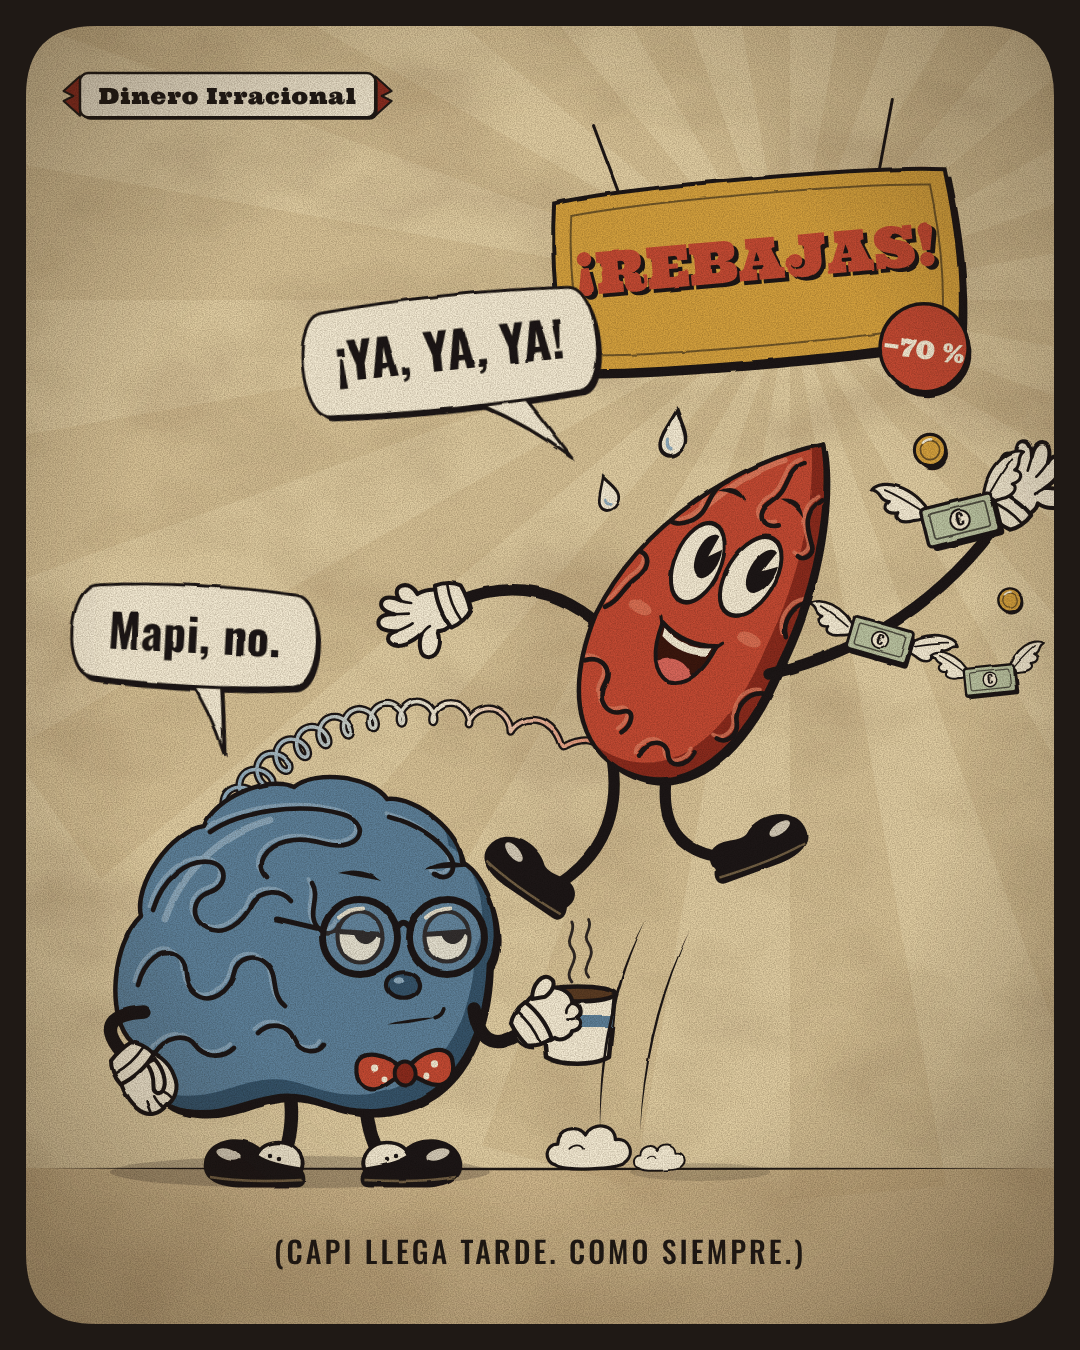
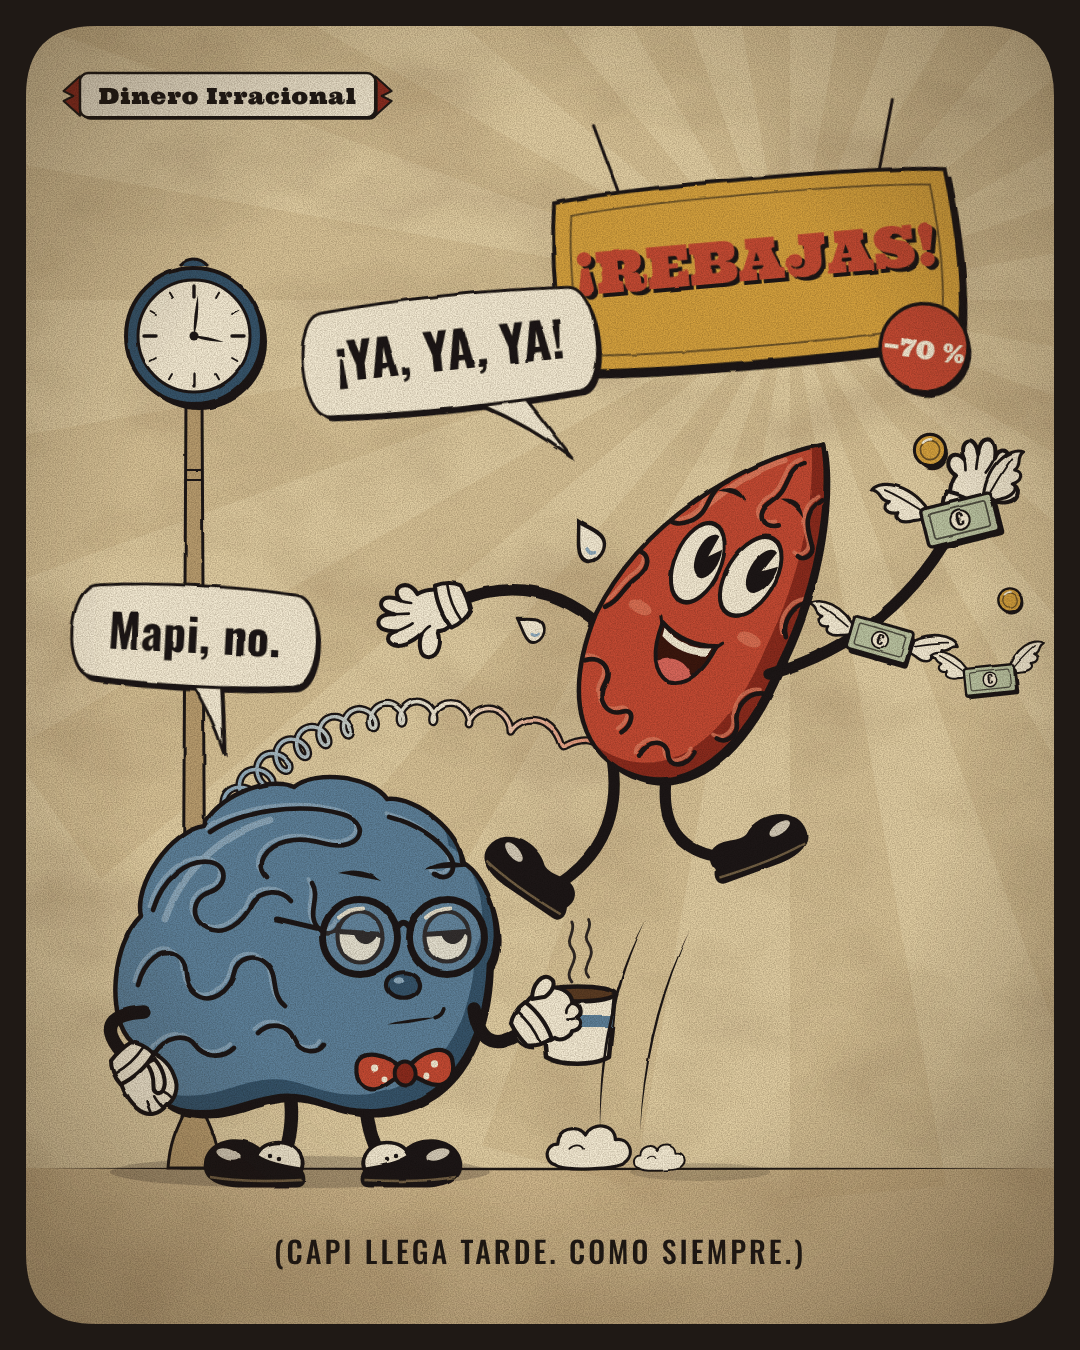
Add character proposal 3 (Manguera)
Claude-Session: https://claude.ai/code/session_01FVuLSk4nTW39aF9TMyduFm

diff --git a/instagram/characters/proposals/p3-manguera/render.js b/instagram/characters/proposals/p3-manguera/render.js
@@ -1,7 +1,7 @@
 // «Manguera» — scenes + render. Usage: node render.js [hero|expressions|cover|avatar|all]
 // Writes <name>.svg (self-contained, fonts via Google Fonts @import) and <name>.png next to this file.
 const path = require('path');
-const { C, mapi, capi, defs, paperBg, filmFx, FONTS, stroke, taper, sweat, steam, mug } = require('./chars.js');
+const { C, mapi, capi, defs, paperBg, filmFx, FONTS, stroke, taper, sweat, steam, mug, r1 } = require('./chars.js');
 const P = require('./props.js');
 const { render, done, writeSvg } = require('./render-lib.js');
 const OUT = __dirname;
@@ -38,10 +38,10 @@ function hero() {
     expr: { look: [0.6, -0.5], mouth: 'grin', brow: [-8, 8], pupil: 0.92 },
     arms: [
       { x: -150, y: -70, bend: 30, glove: 'open', back: true, thumb: 1 },
-      { x: 178, y: -236, bend: 36, glove: 'open', thumb: -1 },
+      { x: 150, y: -226, bend: 36, glove: 'open', thumb: -1 },
     ],
     legs: [{ x: -34, y: 96, bend: -34, rot: 34, dir: -1 }, { x: 80, y: 36, bend: 40, rot: -20, dir: 1 }],
-    sweat: [[-84, -196, 1.1, -30], [-104, -150, 0.85, -50]],
+    sweat: [[-100, -120, 1.1, -60], [-112, -60, 0.85, -80]],
   });
   const capiPos = { x: 300, y: 1108, s: 1.5 };
   const A = [capiPos.x - 44 * 1.5, capiPos.y - 200 * 1.5]; // top-back of Capi
@@ -58,6 +58,17 @@ function hero() {
     legs: [{ x: -14, y: 40, bend: -6, dir: -1 }, { x: 58, y: 40, bend: 6, dir: 1 }],
   });
 
+  // street clock: «Capi llega tarde» — always five past the hour
+  let tk = '';
+  for (let i = 0; i < 12; i++) { const a = i * 30 * Math.PI / 180; tk += stroke(`M${r1(Math.cos(a) * 50)} ${r1(Math.sin(a) * 50)} L${r1(Math.cos(a) * (i % 3 ? 44 : 38))} ${r1(Math.sin(a) * (i % 3 ? 44 : 38))}`, i % 3 ? 2 : 3.4); }
+  const clock = `<g>
+    <path d="M182 ${ground} L186 398 L202 398 L206 ${ground}Z" fill="${C.paperDk}" stroke="${C.ink}" stroke-width="3"/>
+    <path d="M168 ${ground} C170 ${ground - 30} 180 ${ground - 46} 186 ${ground - 60} L202 ${ground - 60} C208 ${ground - 46} 218 ${ground - 30} 220 ${ground}Z" fill="${C.paperDk}" stroke="${C.ink}" stroke-width="3"/>
+    ${stroke('M186 470 L202 470 M186 480 L202 480', 2)}
+    <g transform="translate(194 336)"><circle r="68" fill="${C.ink}" transform="translate(5 6)"/><circle r="68" fill="${C.blueDk}" stroke="${C.ink}" stroke-width="4"/>
+      <circle r="56" fill="${C.glove}" stroke="${C.ink}" stroke-width="3"/>${tk}
+      ${taper(0, 0, 2, -18, 4, -40, 3.4)}${taper(0, 0, 8, 2, 30, 6, 3.2)}<circle r="4.5" fill="${C.ink}"/>
+      <path d="M-14 -70 Q0 -84 14 -70" fill="${C.blueDk}" stroke="${C.ink}" stroke-width="3"/></g></g>`;
   const money = P.bill(960, 520, -14, 1.3, 10) + P.bill(880, 640, 16, 1.1, -12) + P.bill(990, 680, -6, 0.9, 6) + P.coin(930, 450, 1.2, 0) + P.coin(1010, 600, 0.9, 0);
   const groundSvg = `<rect x="0" y="${ground}" width="${W}" height="${H - ground}" fill="${C.paperDk}" opacity=".45"/>${taper(40, ground, 540, ground + 2, 1040, ground, 2.6)}
     <ellipse cx="300" cy="${ground + 4}" rx="190" ry="16" fill="${C.ink}" opacity=".22"/>
@@ -69,7 +80,7 @@ function hero() {
   const late = `<text x="540" y="${ground + 96}" text-anchor="middle" font-family="Oswald" font-weight="500" font-size="30" fill="${C.ink}" letter-spacing="3">(CAPI LLEGA TARDE. COMO SIEMPRE.)</text>`;
 
   const inner = `${paperBg(W, H)}${rays}${groundSvg}
-  <g filter="url(#wobble)">${sign}${cord}${c}${fx}${m}${money}${bubM}${bubC}</g>
+  <g filter="url(#wobble)">${clock}${sign}${cord}${c}${fx}${m}${money}${bubM}${bubC}</g>
   ${late}
   ${P.wordmark(80, 96, 0.82)}
   ${filmFx(W, H)}${P.filmGate(W, H)}`;

diff --git a/instagram/characters/proposals/p3-manguera/notes.md b/instagram/characters/proposals/p3-manguera/notes.md
@@ -1,0 +1,72 @@
+# Propuesta 3 — «Manguera»
+
+**Style name:** Manguera (a 1930s rubber-hose cartoon in a newsreel-paper finish)
+**Three adjectives:** bouncy, inky, old-fashioned (in a warm way)
+
+## Design rationale
+- **Mapi (Sistema 1) is an almond.** *Amygdala* means "almond" in Greek, but no image says that; this is a wink, not an anatomy claim. He is small and tall. His pointed tip leans forward, so the whole body reads as an arrow that is already moving. His eyes are huge, he sweats, and his folds are short, messy squiggles: an "uncombed" brain.
+- **Capi (Sistema 2) is a big lobe.** He is wide, heavy and low. His top edge is scalloped, so the silhouette says "brain" even in solid black. His folds are long, tidy, meandering gyri, as if combed. Round professor glasses stick out past his contour on purpose, so they show in silhouette. He also has a bulb nose, a polka-dot bow tie, spats and a mug that is always steaming.
+- **Shared construction.** Both have noodle arms (a single ink tube), four-finger gloves, big shiny shoes and pie-cut pupils. That shared kit is the only thing taken from the 1930s. Neither one has ears or a human or animal body, and neither copies any existing character.
+- **Unexpected idea (the gimmick): the nerve cord.** Mapi and Capi are joined by one coiled cable, like an old telephone cord. That makes them "parts of the same brain" without any text, and it is literally a rubber hose. The cord runs from blue to red. It stays tightly coiled at Capi's calm end and goes taut where Mapi pulls. The gag is that Mapi bolts and Capi doesn't even notice the tug.
+- **Second idea (avatar):** the almond sits nested in the lobe, so together they make one brain and two personalities.
+- **Recurring gag props:** the street clock ("Capi llega tarde"), winged banknotes ("el dinero vuela"), the moth in the empty wallet, and the endless *ticket*.
+
+## Palette (6 + paper)
+| Rol | Hex |
+|---|---|
+| Papel envejecido | `#E0CDA2` (sombra de papel `#B89C6E`) |
+| Tinta | `#1F1915` |
+| Rojo tomate (Mapi) | `#C24A32` · oscuro `#8A2C1F` · brillo `#DD7A5C` |
+| Azul acero (Capi) | `#5B7F99` · oscuro `#34526A` · brillo `#8EAABD` |
+| Blanco guante (ojos, guantes, bocadillos) | `#F3EAD3` |
+| Mostaza (acento: carteles, monedas) | `#D3A03E` |
+
+Mouth and tongue (`#3B1510`, `#D8665A`) are tints of the red family. This palette deliberately avoids the old cream `#F4EEE3`, coral `#FF5A36` and Fraunces look: the paper is a darker, stained ochre, the reds are muted, and the type is a slab.
+
+## Shape language and proportions
+- **Mapi:** a vertical almond about 140 × 220 u with a pointed tip. Body and head are one shape, with the face in the upper 55 %. Legs are about 0.2 of the body height, and arms are long so they can flail. The eyes are 34 × 50 u, so the face is mostly eyes.
+- **Capi:** a horizontal lobe about 240 × 215 u with a lower notch and a scalloped crown. The face sits in the front third, so he always reads as facing forward or 3/4. Legs are short and stubby. At the same scale he is about 1.6 times Mapi's mass.
+- **Silhouette test:** a pointed teardrop-almond against a cloud-lobe with glasses bumps. Both pass in solid black at 150 px.
+
+## Line and texture
+- **Thick-and-thin contour.** An ink copy of the body is offset to the lower right, under a 3 px contour. That gives a heavy lower-right edge and a thin upper-left edge (light comes from the upper left).
+- **Shading:** one flat tone in each colour family, as a crescent on the lower right, plus a small varnish highlight on the upper left.
+- **Embossed folds:** an ink groove plus a light ridge offset to the upper left, clipped inside the body.
+- **Rubber-hose limbs:** quadratic Béziers with round caps, so every arm curves (never straight lines).
+- **Faces:** tapered strokes for brows, closed eyes and smiles.
+- **Ink wobble:** `feDisplacementMap` with scale 2.4, so the lines don't look vector-perfect.
+- **Finish:** film grain (`feTurbulence`, multiplied at 34 %), large-scale paper stains, a soft radial vignette, and a rounded black film gate around the 1080 × 1350 frames.
+
+## Typography (Google Fonts)
+- **Ultra:** fat 19th-century slab, the poster and title-card voice. Used for headlines, the wordmark, names and the shop sign.
+- **Oswald 500/700:** condensed caps for speech bubbles, labels and secondary lines. It's a nod to newsreel captions.
+
+## Reusable construction (sources)
+- **`chars.js`:** `mapi(opts)` and `capi(opts)`. The same rig serves every drawing:
+  - **Rig parameters:** `x, y, s` (scale), `flip`, `lean` (rotation), `sx/sy` (squash & stretch), `bend` (arc of the line of action, increasing with height).
+  - **Arms and legs:** shoulder or hip to a target point, with `bend` (hose curve), `glove` (open, fist, point, hold), `aim`, `held` (props) and `back` (behind the body).
+  - **Face:** `expr` sets look direction, lids and lid angle, pupil size, closed eyes (happy, shut, squeeze), brows, mouth (smile, worry, grin, scream, flat, smirk, o, calm) and `glassesDy`.
+- **`props.js`:** the nerve coil, winged banknote, coin, wallet, moth, receipt ribbon, speech bubble, motion ticks, puffs, film gate and wordmark.
+- **`render.js`:** the four scenes. `node render.js [hero|expressions|cover|avatar|all]` writes each `.svg` (self-contained, fonts loaded through `@import`) and its `.png`.
+- **`render-lib.js`:** the Playwright rasteriser.
+
+## How they'd move in a Reel
+- **Mapi** moves on twos, fast:
+  - anticipation squash (`sy` 0.85) → stretch (`sy` 1.15, `bend` +30) → smear frame;
+  - a constant 2-frame tremble and sweat drops that fly off;
+  - eyes that blink and pupils that shrink in alarm.
+- **Capi** moves on fours, slow:
+  - lids drop a frame late and rise slowly;
+  - a heavy "settle" overshoot when he finally arrives;
+  - the mug steam loops continuously (a 3-frame wiggle).
+- **The cord is the timing device.** It stretches while Mapi runs. When it reaches full extension it goes *boing*, and Capi is pulled into frame three beats late (the late gag). The coil can also squeeze into a heart or a question mark for transitions.
+- **1930s grammar:** idle "rubber-hose bounce" cycles for both, iris-out endings using the film gate, and title-card intros built with Ultra on the paper texture.
+- **Rendering:** bake the grain and wobble as a looping 3-frame texture overlay. Animating `feTurbulence` per frame is expensive.
+
+## Known weaknesses
+- Pie-cut eyes plus white gloves are inherently 1930s, so the pair sits near the Fleischer, Disney and *Cuphead* family. The difference rests on non-humanoid brain bodies, no ears and the muted palette. The critic should check this.
+- At a glance Mapi's almond can read as a drop or flame. The folds and the "pointed tip forward" posture carry the almond idea, but it isn't obvious without the backstory.
+- Capi's face is always on the front third. Front views aren't built, so a 3/4 view is the only angle; a back or turnaround view would need extra drawing.
+- The receipt says *TICKET* (Spain usage). In neutral Spanish it could be *RECIBO*.
+- Fonts load from Google at render time. An offline render would fall back to system fonts.
+- The pointing glove and the "hold" glove are less refined than the open and fist ones.
